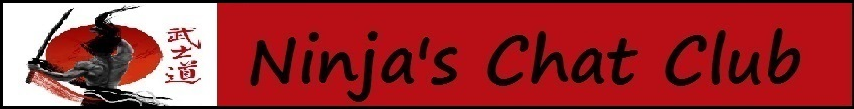
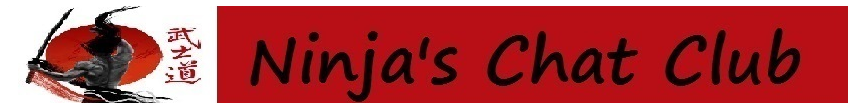
change the main background color

Changed region(s): [[0.0, 0.0, 1.0, 1.0]]

diff --git a/app/webroot/css/main.css b/app/webroot/css/main.css
@@ -6,7 +6,7 @@
 body {
 	font-family: Arial, Helvetica, sans-serif;
 	color: #666666;
-	background-color: #000000;
+	background-color: #1f1f14;
 	font-size: 15px;
 	/*background-image:url(../img/main/bg-tile.gif);
  background-repeat:repeat;*/
@@ -20,7 +20,7 @@ body {
 #border {
 	border: 0px solid #8ECE5F;
 	margin: 20px 0px 0px 0px;
-	background-color: #000000;
+	background-color: #1f1f14;
 	min-height: 123px; /**/
 	float: right;
 	width: 955px; /**/
@@ -45,7 +45,7 @@ body {
 	margin: 0px 0px 0px 0px;
 	background-image: /*url(../img/main/nav-bar.png)*/;
 	background-repeat: no-repeat;
-	background-color: #000000;
+	background-color: #1f1f14;
 	min-height: 15px;
 	padding: 4px 0px 0px 5px;
 }
@@ -162,7 +162,7 @@ img.float {
 	background-image: url(../img/main/content-top.gif);
 	background-repeat: no-repeat;
 	*/
-    background: black;
+    background: #1f1f14;
     height: 8px;
 }
 
@@ -171,7 +171,7 @@ img.float {
 	background-image: url(../img/main/content-mid.gif);
 	background-repeat: repeat;
 	*/
-	background: black;
+	background: #1f1f14;
 	padding: 5px 14px 5px 14px;
 }
 
@@ -180,7 +180,7 @@ img.float {
 	background-image: url(../img/main/content-bottom.gif);
 	background-repeat: no-repeat;
 	*/
-    background: black;
+    background: #1f1f14;
     height: 8px;
 }
 
@@ -322,15 +322,15 @@ a:hover {
 }
 /*for stats, the totals*/
 .totals {
-	background: /*#E6EDF5*/ #d3a006;
+	background: /*#E6EDF5*/ #a37e09;
 	color: /*#4F76A3*/ white;
 	font-size: 100% !important;
 	font-weight: bold;
 }
 /*for search label*/
 .search-label {
-	background: /*#E6EDF5*/ #d3a006;
-	color: /*#4F76A3*/ black;
+	background: /*#E6EDF5*/ #a37e09;
+	color: /*#4F76A3*/ #000000;
 	font-size: 100% !important;
 	font-weight: bold;
 }

diff --git a/app/webroot/css/tables.css b/app/webroot/css/tables.css
@@ -23,7 +23,7 @@ td, th {
 
 thead th {
 	text-align: center;
-	background: /*#E6EDF5*/#bd8f04;
+	background: /*#E6EDF5*/#a37e09;
 	color: /*#4F76A3*/black;
 	font-size: 100% !important;
 }

diff --git a/app/webroot/css/DropDownTabs/halfmoontabs.css b/app/webroot/css/DropDownTabs/halfmoontabs.css
@@ -34,7 +34,7 @@ color: black;
 }
 
 .halfmoon li a:hover, .halfmoon li.selected a{
-background-color: /*#464F26*/#d3a006;
+background-color: /*#464F26*/#a37e09;
 color: black;
 }
 
